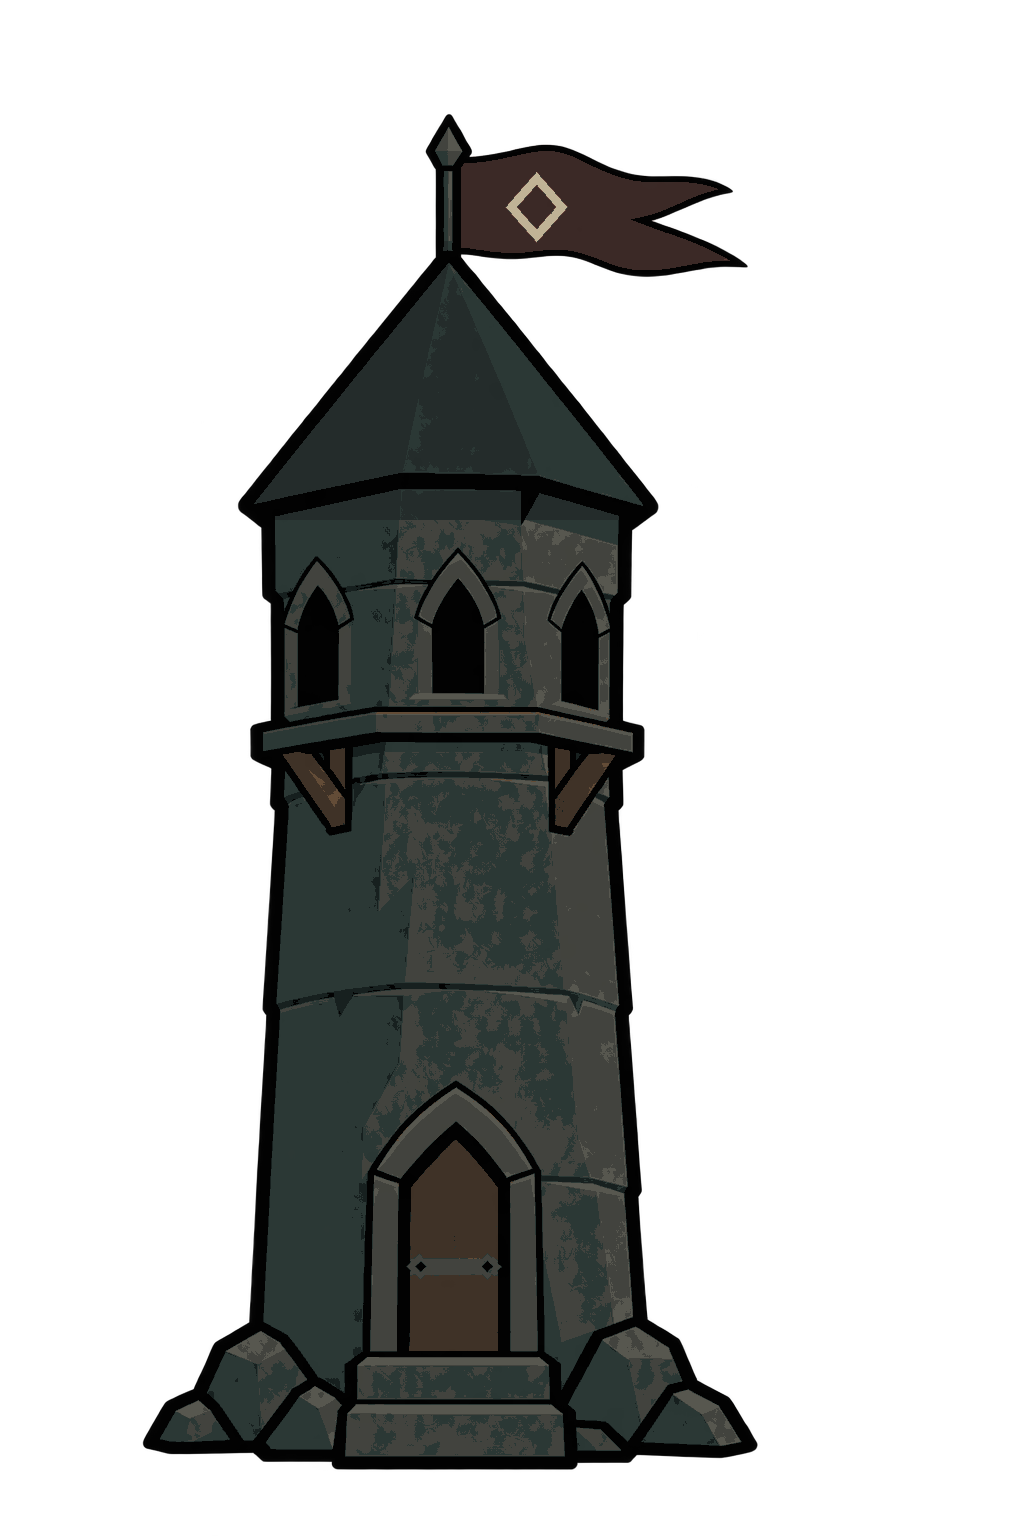
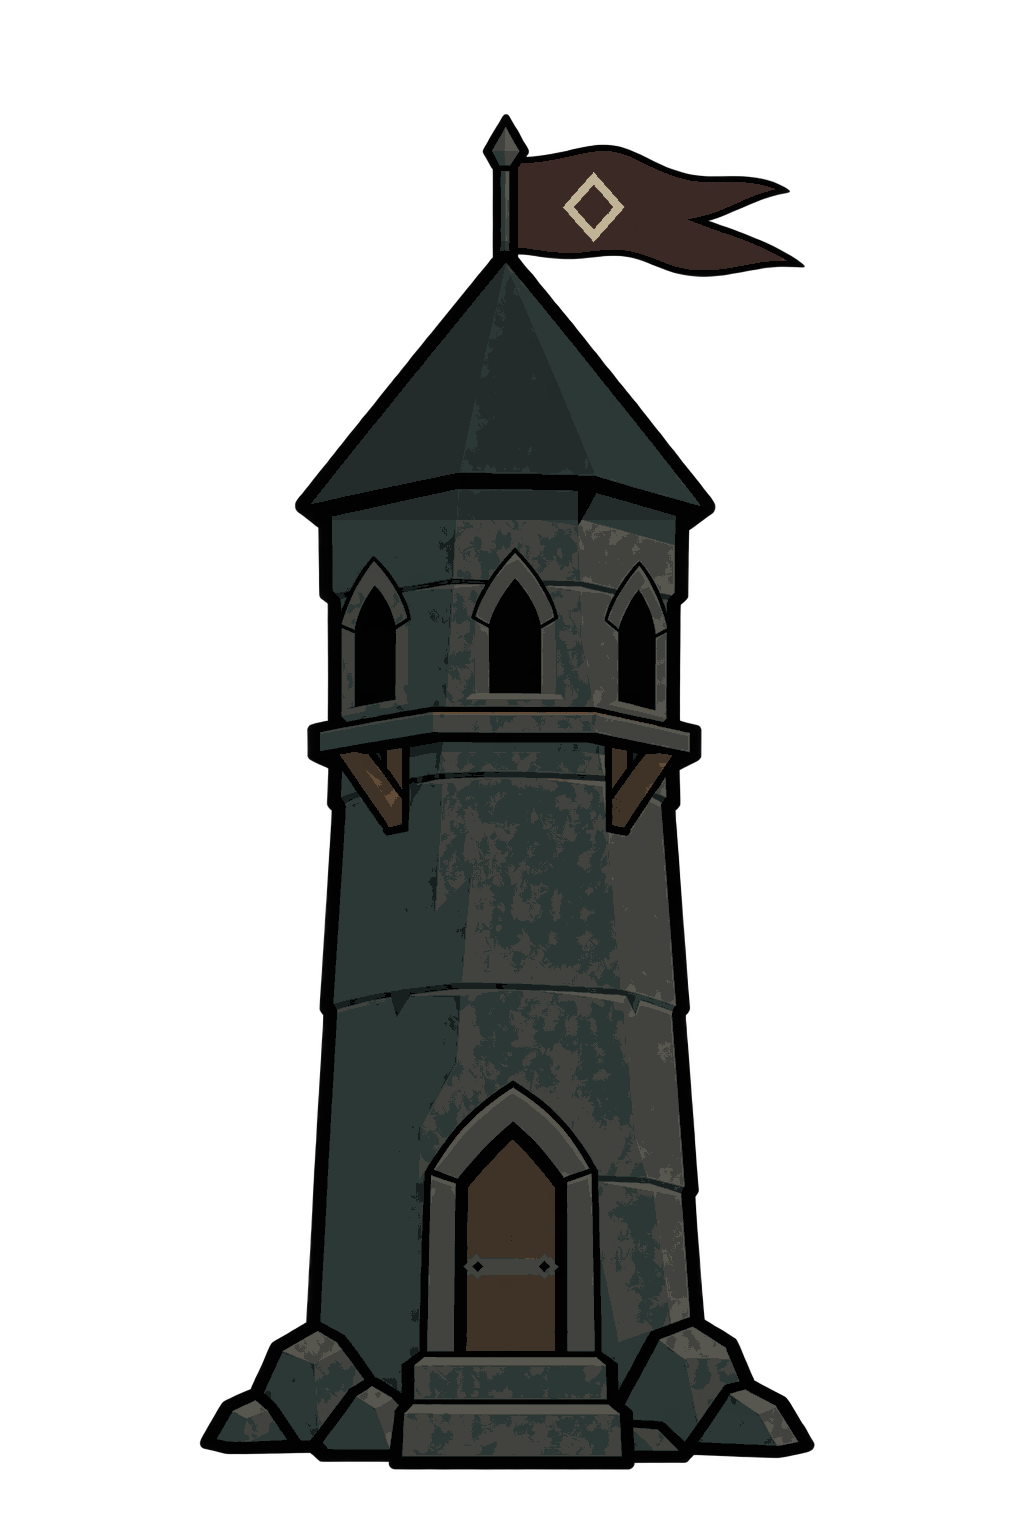
Align all five Gloamwatch images to a shared placement anchor

Changed region(s): [[0.125, 0.0625, 0.8125, 0.9688]]

diff --git a/docs/concepts/gloamwatch/README.md b/docs/concepts/gloamwatch/README.md
@@ -80,10 +80,28 @@ occlusion and portrait layouts at 360x640, 390x844 and 540x960 when integrating.
 
 ## Provenance
 
+The final placement pass translates the existing fixed-palette images only:
+tier 1/2/3 by (+57, 0), frost by (+57, -1), and poison by (+54, +28) pixels.
+All five remain 1024 by 1536 with the shared placement anchor **(512, 1457)**,
+measured at the center of the lowest front step where its bottom ink stroke begins.
+The poison step has an odd pixel width, so its geometric center is 511.5;
+the integer anchor rounds to 512 (half-pixel tolerance, no interpolation).
+No artwork was regenerated, resized, warped or recolored. Retained RGBA pixels
+are byte-identical after translation. No pixels with alpha 128 or higher were
+clipped; only faint background residue at canvas edges moved out of bounds.
+See [alignment-verification.json](alignment-verification.json).
+
+Use the entire canvas and the same anchor/scale for all upgrades. For a centered
+Godot Sprite2D, offset (0, -689) places this anchor at the node origin.
+Do not auto-crop and independently center each image by its flag or buttress bounds.
+Reproduce with `python tools/gloamwatch_alignment.py SOURCE --output DESTINATION`,
+using the unaligned PNGs from commit `c530677` as SOURCE.
+
 The cumulative images were visually compared for shared shaft, door, window,
 roof and ground placement, along with the flag sequence. They remain generated
-concepts: small registration variations remain, especially in the
-poison branch. Runtime integration must use a single immutable base layer with
+concepts: small internal shape differences remain, especially in the
+poison branch, even though the placement anchors now match. Runtime integration
+must use a single immutable base layer with
 separate upgrade parts to guarantee pixel-identical placement and dimensions.
 
 The final color-only revision uses the user-approved deterministic conversion in
